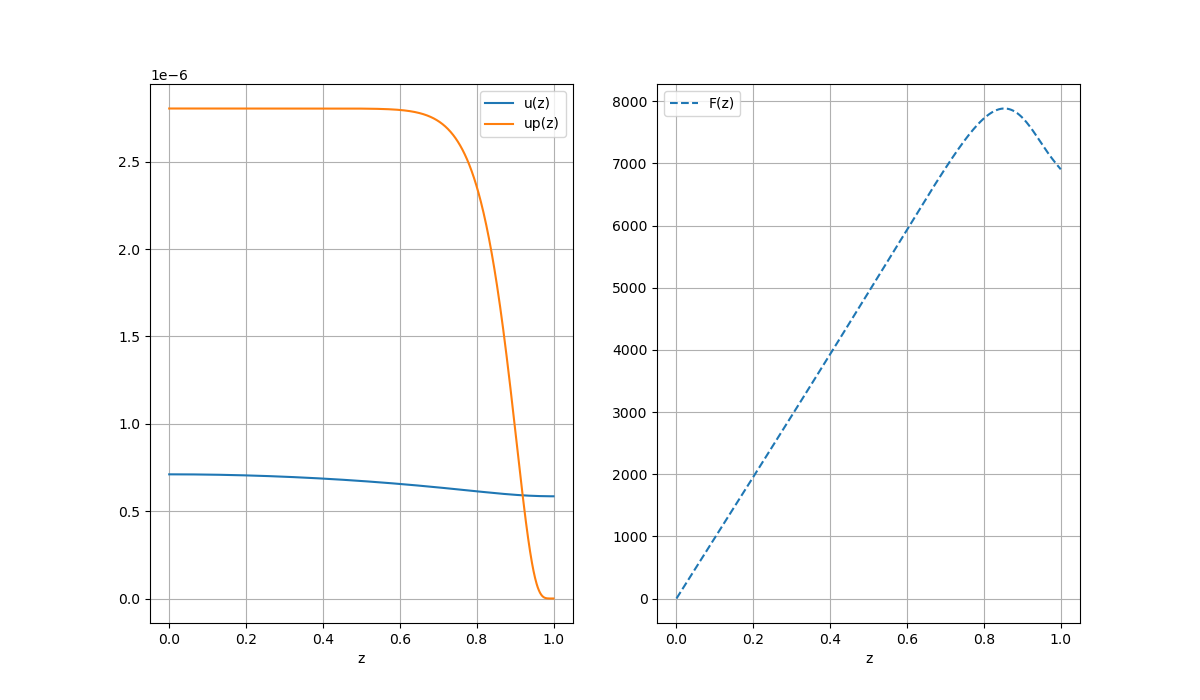
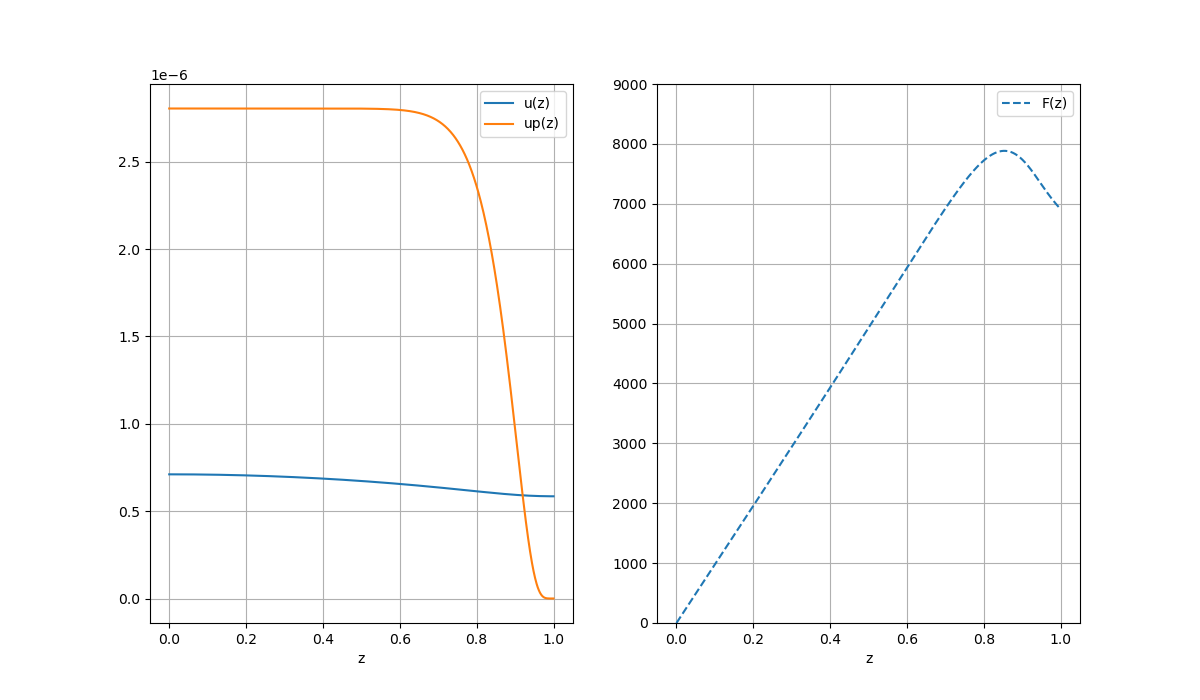
lab2

diff --git a/lab_02/main.py b/lab_02/main.py
@@ -88,9 +88,6 @@ class HalfDivisionSolver:
 
             x = (x1 + x2) / 2
 
-            if x < 0:
-                print('ERRR')
-
         return x
 
 
@@ -134,6 +131,7 @@ def process_results(solution_steps):
     plt.xlabel('z')
     plt.grid()
     plt.subplot(1, 2, 2)
+    plt.ylim([0, 9000])
     plt.plot(x, z, '--', label='F(z)')
     plt.legend()
     plt.xlabel('z')
@@ -184,6 +182,7 @@ def main():
             hd_f_func = lambda ksi: \
                 psi(RungeKutta4Solver(rk_f_func, rk_phi_func).solve(z_min, u_min_func(ksi), F_min, z_max, h))
             ksi = HalfDivisionSolver(hd_f_func).solve(ksi_min, ksi_max)
+
 
             global P_SHOW
             P_SHOW = p
